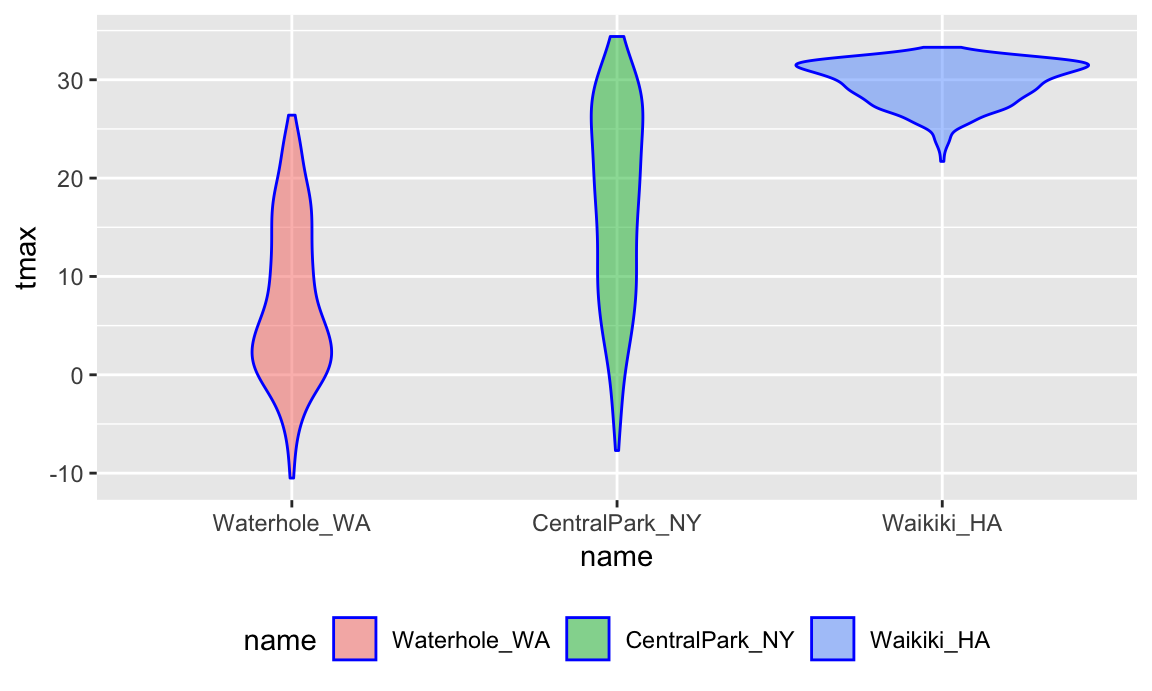
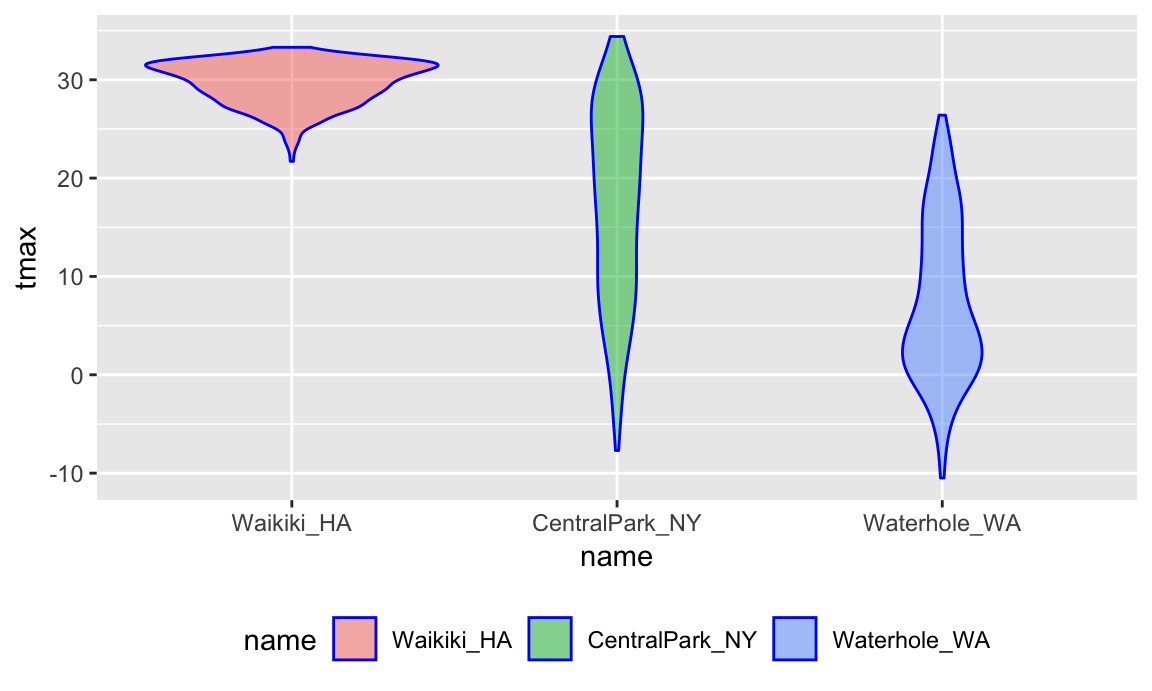
details for viz_ii

diff --git a/visualization_pt2.html b/visualization_pt2.html
@@ -396,9 +396,9 @@ div.tocify {
 </div>
 <div id="example" class="section level2">
 <h2>Example</h2>
-<p>Although I could add to the same .Rmd I started in <a href="visualization_pt1.html">Visualization Pt 1</a>, I’ll create a new document for today. We’re also going to take advantage of features in additional packages; most of these were installed previously, but you might need to install some others using the code below:</p>
+<p>I’ll create a new .Rmd for this example, and include it in the Git repo / directory for the <a href="topic_visualization_and_eda.html">Visualization and EDA</a> topic. I’m also going to take advantage of features in additional packages; most of these were installed previously, but it might be necessary to install <a href="https://github.com/thomasp85/patchwork"><code>patchwork</code></a> using the code below:</p>
 <pre class="r"><code>devtools::install_github(&quot;thomasp85/patchwork&quot;)</code></pre>
-<p>Next I’ll load the relevant packages.</p>
+<p>Next I’ll load the relevant packages for this example.</p>
 <pre class="r"><code>library(tidyverse)
 ## ── Attaching packages ─────────────────────────────────────────────────────────────────────────────────────────────────────────────────────────────────────────────────────── tidyverse 1.2.1 ──
 ## ✔ ggplot2 3.0.0     ✔ purrr   0.2.5
@@ -414,12 +414,9 @@ library(ggridges)
 ## The following object is masked from &#39;package:ggplot2&#39;:
 ## 
 ##     scale_discrete_manual
-library(ggthemes)
 library(patchwork)</code></pre>
 <p>We’ll still work with NOAA weather data, which is loaded using the same code as in <a href="visualization_pt1.html">Visualization Pt 1</a>.</p>
-<pre class="r"><code>library(rnoaa)
-
-weather_df = 
+<pre class="r"><code>weather_df = 
   rnoaa::meteo_pull_monitors(c(&quot;USW00094728&quot;, &quot;USC00519397&quot;, &quot;USS0023B17S&quot;),
                       var = c(&quot;PRCP&quot;, &quot;TMIN&quot;, &quot;TMAX&quot;), 
                       date_min = &quot;2017-01-01&quot;,
@@ -446,14 +443,14 @@ weather_df
 ##  9 CentralPark_NY USW00094728 2017-01-09     0  -4.9  -9.9
 ## 10 CentralPark_NY USW00094728 2017-01-10     0   7.8  -6  
 ## # ... with 1,085 more rows</code></pre>
-<p>As a starting point, we’ll revisit the scatterplot of <code>tmax</code> against <code>tmin</code> made in <a href="visualization_pt1.html">Visualization Pt 1</a>.</p>
+<p>As a starting point, let’s revisit the scatterplot of <code>tmax</code> against <code>tmin</code> made in <a href="visualization_pt1.html">Visualization Pt 1</a>.</p>
 <pre class="r"><code>ggplot(weather_df, aes(x = tmin, y = tmax)) + 
   geom_point(aes(color = name), alpha = .5)
 ## Warning: Removed 15 rows containing missing values (geom_point).</code></pre>
 <p><img src="visualization_pt2_files/figure-html/unnamed-chunk-4-1.png" width="90%" /></p>
-<div id="labels-etc" class="section level3">
-<h3>Labels etc</h3>
-<p>Some of the most important are the axis labels, title, and caption, all of which can be controlled using <code>labs()</code>.</p>
+<div id="labels-ticks" class="section level3">
+<h3>Labels, ticks</h3>
+<p>There are a variety of useful ways to change the appearance of your plot, especially if your graphic is intended to be viewed by others. One of the most important things you can do is provide informative axis labels, plot titles, and captions, all of which can be controlled using <code>labs()</code>.</p>
 <pre class="r"><code>ggplot(weather_df, aes(x = tmin, y = tmax)) + 
   geom_point(aes(color = name), alpha = .5) + 
   labs(
@@ -464,7 +461,7 @@ weather_df
   )
 ## Warning: Removed 15 rows containing missing values (geom_point).</code></pre>
 <p><img src="visualization_pt2_files/figure-html/unnamed-chunk-5-1.png" width="90%" /></p>
-<p>Tick marks and labels.</p>
+<p>You’ll occasionally want finer control over the location and specification of tick marks on the X or Y axis. These can be manipulated in <code>scale_x_*</code> and <code>scale_y_*</code> where <code>*</code> depends on the type of variable mapped to the <code>x</code> and <code>y</code> aesthetics.</p>
 <pre class="r"><code>ggplot(weather_df, aes(x = tmin, y = tmax)) + 
   geom_point(aes(color = name), alpha = .5) + 
   labs(
@@ -477,7 +474,7 @@ weather_df
                      labels = c(&quot;-15º C&quot;, &quot;0&quot;, &quot;15&quot;))
 ## Warning: Removed 15 rows containing missing values (geom_point).</code></pre>
 <p><img src="visualization_pt2_files/figure-html/unnamed-chunk-6-1.png" width="90%" /></p>
-<p>Other <code>scale_x</code> and <code>scale_y</code> options</p>
+<p>There are a variety of other <code>scale_x</code> and <code>scale_y</code> options – it can be helpful to know how and where these are controlled, although I usually would have to google how to do what I want.</p>
 <pre class="r"><code>ggplot(weather_df, aes(x = tmin, y = tmax)) + 
   geom_point(aes(color = name), alpha = .5) + 
   labs(
@@ -495,10 +492,11 @@ weather_df
 ## Warning: Transformation introduced infinite values in continuous y-axis
 ## Warning: Removed 90 rows containing missing values (geom_point).</code></pre>
 <p><img src="visualization_pt2_files/figure-html/unnamed-chunk-7-1.png" width="90%" /></p>
+<p>For many graph options there are several ways to produce the desired result, and you should feel free to use whichever is most convenient. For instance, <code>scale_y_sqrt()</code> can be added to a <code>ggplot</code> object to transform the Y scale, and <code>xlim()</code> can be used to control the plot limits in the X axis.</p>
 </div>
 <div id="colors-and-themes" class="section level3">
 <h3>Colors and themes</h3>
-<p>Lots of scale options for other aesthetics. Color comes up a lot.</p>
+<p>Analogously to <code>scale_x_*</code> and <code>scale_y_*</code>, there are <code>scale</code>s corresponding to many other aestheics. Some of the most common are used to control the <code>color</code> aesthetic. For example, arguments to <code>scale_color_hue()</code> control the color scale and the name in the plot legend.</p>
 <pre class="r"><code>ggplot(weather_df, aes(x = tmin, y = tmax)) + 
   geom_point(aes(color = name), alpha = .5) + 
   labs(
@@ -511,7 +509,7 @@ weather_df
                   h = c(100, 300))
 ## Warning: Removed 15 rows containing missing values (geom_point).</code></pre>
 <p><img src="visualization_pt2_files/figure-html/unnamed-chunk-8-1.png" width="90%" /></p>
-<p>Trying to create your own color scheme usually doesn’t go well; I encourage you to use the <a href="https://cran.r-project.org/web/packages/viridis/vignettes/intro-to-viridis.html"><code>viridis</code></a> package instead.</p>
+<p>Trying to create your own color scheme usually doesn’t go well; I encourage you to use the <a href="https://cran.r-project.org/web/packages/viridis/vignettes/intro-to-viridis.html"><code>viridis</code></a> package instead. There are several options, but the default color scheme works nicely!</p>
 <pre class="r"><code>ggplot(weather_df, aes(x = tmin, y = tmax)) + 
   geom_point(aes(color = name), alpha = .5) + 
   labs(
@@ -526,8 +524,8 @@ weather_df
   )
 ## Warning: Removed 15 rows containing missing values (geom_point).</code></pre>
 <p><img src="visualization_pt2_files/figure-html/unnamed-chunk-9-1.png" width="90%" /></p>
-<p>We used <code>discrete = TRUE</code> because the color aesthetic is mapped to a discrete variable. In other cases (for example, when color mapped to <code>prcp</code>) you can omit this and get a continuous color gradient. The <code>viridis::scale_fill_viridis</code> is appropriate for the <code>fill</code> aesthetic.</p>
-<p>Another that I frequently change is the legend position; by default this is on the right of the graphic, but I often shift it to the bottom to ensure the graphic takes up the available left-to-right space.</p>
+<p>We used <code>discrete = TRUE</code> because the <code>color</code> aesthetic is mapped to a discrete variable. In other cases (for example, when color mapped to <code>prcp</code>) you can omit this argument to get a continuous color gradient. The <code>viridis::scale_fill_viridis()</code> function is appropriate for the <code>fill</code> aesthetic used in histograms, density plots. and elsewhere.</p>
+<p>Another plot aspect that I frequently change is the legend position. By default this is on the right of the graphic, but I often shift it to the bottom to ensure the graphic takes up the available left-to-right space.</p>
 <pre class="r"><code>ggplot(weather_df, aes(x = tmin, y = tmax)) + 
   geom_point(aes(color = name), alpha = .5) + 
   labs(
@@ -543,8 +541,8 @@ weather_df
   theme(legend.position = &quot;bottom&quot;)
 ## Warning: Removed 15 rows containing missing values (geom_point).</code></pre>
 <p><img src="visualization_pt2_files/figure-html/unnamed-chunk-10-1.png" width="90%" /></p>
-<p><code>legend.position = &quot;none&quot;</code> will remove the legend.</p>
-<p>While we’re on the subject, you can change the default theme (which is <code>theme_gray</code>) to something else. Here’s <code>theme_bw()</code>:</p>
+<p>Quick tip: <code>legend.position = &quot;none&quot;</code> will remove the legend. This is helpful when multiple plots use the same color scheme or when the legend is obnoxious for some other reason.</p>
+<p>While we’re on the subject of <code>theme</code>, you can change the default theme (which is <code>theme_gray</code>) to something else. Here’s <code>theme_bw()</code>:</p>
 <pre class="r"><code>ggplot(weather_df, aes(x = tmin, y = tmax)) + 
   geom_point(aes(color = name), alpha = .5) + 
   labs(
@@ -596,12 +594,31 @@ weather_df
 ## Warning: Removed 15 rows containing missing values (geom_point).</code></pre>
 <p><img src="visualization_pt2_files/figure-html/unnamed-chunk-13-1.png" width="90%" /></p>
 <p>Don’t use the Excel 2003 theme (the first two are fine, and <code>ggthemes</code> has other very nice themes as well).</p>
-<p>The ordering of <code>theme_bw()</code> and <code>theme()</code> matters – <code>theme()</code> changes a particular element of the plot’s “theme”. If you call <code>theme</code> to change the theme and then <code>theme_bw()</code>, and updates are overwritten by <code>theme_bw()</code>.</p>
-<p><strong><em>Learning Assessment:</em></strong> Revisit to density plot you made comparing precipitation across locations. Use themes and labels to improve the readability of this plot.</p>
+<p>The ordering of <code>theme_bw()</code> and <code>theme()</code> matters – <code>theme()</code> changes a particular element of the plot’s current “theme”. If you call <code>theme</code> to change the some element and then <code>theme_bw()</code>, the changes introduced by <code>theme()</code> are overwritten by <code>theme_bw()</code>.</p>
+<p><strong><em>Learning Assessment:</em></strong> Revisit the plot showing <code>tmax</code> against date for each location. Use labels, scale options, and theme changes to improve the readability of this plot.</p>
+<p><details> <summary> Solution </summary></p>
+<p>One possible plot is shown below.</p>
+<pre class="r"><code>ggplot(weather_df, aes(x = date, y = tmax, color = name)) + 
+  geom_smooth(se = FALSE) + 
+  geom_point(aes(size = prcp), alpha = .75) + 
+  labs(
+    title = &quot;Temperature plot&quot;,
+    x = &quot;Date&quot;,
+    y = &quot;Maxiumum daily temperature (C)&quot;,
+    caption = &quot;Data from the rnoaa package&quot;
+  ) + 
+  viridis::scale_color_viridis(discrete = TRUE) + 
+  theme_minimal() + 
+  theme(legend.position = &quot;bottom&quot;)
+## `geom_smooth()` using method = &#39;loess&#39; and formula &#39;y ~ x&#39;
+## Warning: Removed 3 rows containing non-finite values (stat_smooth).
+## Warning: Removed 3 rows containing missing values (geom_point).</code></pre>
+<p><img src="visualization_pt2_files/figure-html/unnamed-chunk-14-1.png" width="90%" /></p>
+<p></details></p>
 </div>
 <div id="setting-options" class="section level3">
 <h3>Setting options</h3>
-<p>In addition to figure sizing, I include a lot of my preferences in global options declared at the outset of each .Rmd file (this just gets copy-and-pasted everywhere).</p>
+<p>In addition to figure sizing, I include a few other figure preferences in global options declared at the outset of each .Rmd file (this code chunk just gets copy-and-pasted to every new file).</p>
 <pre class="r"><code>library(tidyverse)
 
 knitr::opts_chunk$set(
@@ -611,10 +628,12 @@ knitr::opts_chunk$set(
 )
 
 theme_set(theme_bw() + theme(legend.position = &quot;bottom&quot;))</code></pre>
+<p>There are ways to set color preferences globally as well, although they’re a bit more complex and we probably won’t cover them.</p>
 </div>
-<div id="geom-data-argument" class="section level3">
-<h3><code>geom</code> data argument</h3>
-<p>We talked a bit about aesthetics being set globally vs locally. You can do a similar thing with data (this is a contrived example):</p>
+<div id="data-argument-in-geom_" class="section level3">
+<h3>Data argument in <code>geom_*</code></h3>
+<p>We’ve seen that where an aesthetic gets mapped to a variable matters – setting <code>aes(color = name)</code> in <code>ggplot</code> can yield different results than the same setting in <code>geom_point()</code>. This arises from the way that <code>ggplot</code> objects inherit aesthetic mappings, and it turns out there’s a similar thing with the data used to make a plot.</p>
+<p>In a contrived example, we can split <code>weather_df</code> into separate datasets for Central Park and Waikiki. Then we use one in the <code>ggplot()</code> call and another in <code>geom_line()</code>:</p>
 <pre class="r"><code>central_park = 
   weather_df %&gt;% 
   filter(name == &quot;CentralPark_NY&quot;)
@@ -627,53 +646,58 @@ ggplot(waikiki, aes(x = date, y = tmax, color = name)) +
   geom_point() + 
   geom_line(data = central_park)
 ## Warning: Removed 3 rows containing missing values (geom_point).</code></pre>
-<p><img src="visualization_pt2_files/figure-html/unnamed-chunk-15-1.png" width="90%" /></p>
+<p><img src="visualization_pt2_files/figure-html/unnamed-chunk-16-1.png" width="90%" /></p>
+<p>More realistically, it’s sometimes necessary to overlay data summaries on a plot of the complete data. Depending on the setting, one way to do this is to create a “summary” dataframe and use that when adding a new <code>geom</code> to a <code>ggplot</code> based on the full data.</p>
 </div>
 <div id="patchwork" class="section level3">
 <h3><code>patchwork</code></h3>
-<p>Facetting works if you want the “same plot” for several levels of a category. Sometimes you want to show three completely different plots.</p>
-<pre class="r"><code>p1 = ggplot(weather_df, aes(x = tmax, y = tmin, color = name)) + 
+<p>We’ve seen facetting as an approach to create the “same plot” for several levels of a categorical variable, and this can get you pretty far. Sometimes, though, you want to show two or three fundamentally different plots in the same graphic: you may want to juxtapose a scatterplot and a boxplot, or show scatterplots illustrating relationships between different variables. In this case, a solution is to create each of the panels you want separately and combine panels using tools in the <a href="https://github.com/thomasp85/patchwork"><code>patchwork</code></a> package:</p>
+<pre class="r"><code>tmax_tmin_p = ggplot(weather_df, aes(x = tmax, y = tmin, color = name)) + 
   geom_point(alpha = .5) +
   theme(legend.position = &quot;none&quot;)
 
-p2 = weather_df %&gt;% 
+prcp_dens_p = weather_df %&gt;% 
   filter(prcp &gt; 0) %&gt;% 
   ggplot(aes(x = prcp, fill = name)) + 
   geom_density(alpha = .5) + 
   theme(legend.position = &quot;none&quot;)
 
-p3 = ggplot(weather_df, aes(x = date, y = tmax, color = name)) + 
+tmax_date_p = ggplot(weather_df, aes(x = date, y = tmax, color = name)) + 
   geom_point(alpha = .5) +
   geom_smooth(se = FALSE) + 
   theme(legend.position = &quot;bottom&quot;)
 
-(p1 + p2) / p3
+(tmax_tmin_p + prcp_dens_p) / tmax_date_p
 ## Warning: Removed 15 rows containing missing values (geom_point).
 ## `geom_smooth()` using method = &#39;loess&#39; and formula &#39;y ~ x&#39;
 ## Warning: Removed 3 rows containing non-finite values (stat_smooth).
 ## Warning: Removed 3 rows containing missing values (geom_point).</code></pre>
-<p><img src="visualization_pt2_files/figure-html/unnamed-chunk-16-1.png" width="90%" /></p>
+<p><img src="visualization_pt2_files/figure-html/unnamed-chunk-17-1.png" width="90%" /></p>
+<p>The package is already very helpful but is under active development – some features may change or be added over time – so check back periodically to stay up-to-date. This does require some amount of work for each panel, and you should keep in mind that this is intended to help combine panels into a plot that couldn’t be created better using data tidying steps.</p>
 </div>
 <div id="data-manipulation" class="section level3">
 <h3>Data Manipulation</h3>
-<p>Data manip is part of plotting.</p>
-<p>The behavior of your plot depends on the data you’ve supplied; in some cases, it’s easier to control behavior through data manipulation than it is through the plot code. This is particularly true for the order of categorical or factor variables. Categorical variables will be ordered alphabetically; factors will be follow the specified order level. You can change the order level of a factor variable to your specified preference using <code>forcats::fct_relevel</code> or according to the value of another variable using <code>forcats::fct_reorder</code>.</p>
+<p>Often, struggles with <code>ggplot</code> are struggles with data tidying in disguise. Viewing data manipulation as part of the visualization process will often be your path to success! Put differently, the behavior of your plot depends on the data you’ve supplied; in some cases, it’s easier to control behavior through data manipulation than it is through the plot code.</p>
+<p>This is particularly true for the order of categorical or factor variables in plots. Categorical variables will be ordered alphabetically; factors will follow the specified order level that underlies the variable labels. You can change the order level of a factor variable to your specified preference using <code>forcats::fct_relevel</code> or according to the value of another variable using <code>forcats::fct_reorder</code>.</p>
+<p>A first example reorders <code>name</code> “by hand”:</p>
 <pre class="r"><code>weather_df %&gt;%
   mutate(name = forcats::fct_relevel(name, c(&quot;Waikiki_HA&quot;, &quot;CentralPark_NY&quot;, &quot;Waterhole_WA&quot;))) %&gt;% 
   ggplot(aes(x = name, y = tmax)) + 
   geom_violin(aes(fill = name), color = &quot;blue&quot;, alpha = .5) + 
   theme(legend.position = &quot;bottom&quot;)
 ## Warning: Removed 3 rows containing non-finite values (stat_ydensity).</code></pre>
-<p><img src="visualization_pt2_files/figure-html/unnamed-chunk-17-1.png" width="90%" /></p>
+<p><img src="visualization_pt2_files/figure-html/unnamed-chunk-18-1.png" width="90%" /></p>
+<p>A second example reorders <code>name</code> according to <code>tmax</code> values in each name:</p>
 <pre class="r"><code>weather_df %&gt;%
   mutate(name = forcats::fct_reorder(name, tmax)) %&gt;% 
   ggplot(aes(x = name, y = tmax)) + 
   geom_violin(aes(fill = name), color = &quot;blue&quot;, alpha = .5) + 
   theme(legend.position = &quot;bottom&quot;)
 ## Warning: Removed 3 rows containing non-finite values (stat_ydensity).</code></pre>
-<p><img src="visualization_pt2_files/figure-html/unnamed-chunk-18-1.png" width="90%" /></p>
+<p><img src="visualization_pt2_files/figure-html/unnamed-chunk-19-1.png" width="90%" /></p>
 <p>We’ll learn more about the <a href="http://forcats.tidyverse.org/index.html"><code>forcats</code></a> package in <a href="data_wrangling_ii.html">Data Wrangling II</a>.</p>
-<p>More difficult example – suppose i wanted a three-panel plot showing the distribution of min and max temps in each location.</p>
+<p>A more difficult situation relates to data tidyiness. Suppose I wanted to create a three-panel plot showing densities for <code>tmax</code> and <code>tmin</code> within each location. More concretely, I want to be able to facet panels across the <code>name</code> variable, and create separate densities for <code>tmax</code> and <code>tmin</code> in each panel. Unfortunately, <code>weather_df</code> isn’t organized in a way that makes this easy.</p>
+<p>One solution would recognize that <code>tmax</code> and <code>tmin</code> are separate observation types of a shared <code>temperature</code> variable. With this understanding, it’s possible to tidy the <code>weather_df</code> and make the plot directly:</p>
 <pre class="r"><code>weather_df %&gt;%
   select(name, tmax, tmin) %&gt;% 
   gather(key = observation, value = temp, tmax:tmin) %&gt;% 
@@ -682,8 +706,8 @@ p3 = ggplot(weather_df, aes(x = date, y = tmax, color = name)) +
   facet_grid(~name) + 
   viridis::scale_fill_viridis(discrete = TRUE)
 ## Warning: Removed 18 rows containing non-finite values (stat_density).</code></pre>
-<p><img src="visualization_pt2_files/figure-html/unnamed-chunk-19-1.png" width="90%" /></p>
-<p>Make a plot of pusle data</p>
+<p><img src="visualization_pt2_files/figure-html/unnamed-chunk-20-1.png" width="90%" /></p>
+<p>Our emphasis on data tidiness in previous examples is helpful in visualization. The code below imports and tidies the PULSE data, and creates a plot showing BDI score across visits. Some steps that are helpful in retrospect are using <code>gather</code> to organize the BDI score and visit time variables, and organizing the visit time variable into a factor with an informative ordering.</p>
 <pre class="r"><code>pulse_data = haven::read_sas(&quot;./data/public_pulse_data.sas7bdat&quot;) %&gt;%
   janitor::clean_names() %&gt;%
   gather(key = visit, value = bdi, bdi_score_bl:bdi_score_12m) %&gt;%
@@ -698,8 +722,8 @@ p3 = ggplot(weather_df, aes(x = date, y = tmax, color = name)) +
 ggplot(pulse_data, aes(x = visit, y = bdi)) + 
   geom_boxplot()
 ## Warning: Removed 879 rows containing non-finite values (stat_boxplot).</code></pre>
-<p><img src="visualization_pt2_files/figure-html/unnamed-chunk-20-1.png" width="90%" /></p>
-<p>Make a plot of FAS data</p>
+<p><img src="visualization_pt2_files/figure-html/unnamed-chunk-21-1.png" width="90%" /></p>
+<p>As a final example, we’ll revisit the FAS data. We’ve seen code for data import and organization and for joining the litters and pups data. Here we add some data tidying steps to view pup-level outcomes (post-natal day on which ears “work”, on which the pup can walk, etc) across values of dose category and treatment day.</p>
 <pre class="r"><code>pup_data = read_csv(&quot;./data/FAS_pups.csv&quot;, col_types = &quot;ciiiii&quot;) %&gt;%
   janitor::clean_names() %&gt;%
   mutate(sex = recode(sex, `1` = &quot;male&quot;, `2` = &quot;female&quot;)) 
@@ -721,7 +745,8 @@ fas_data %&gt;%
   ggplot(aes(x = dose, y = pn_day)) + 
   geom_violin() + 
   facet_grid(day_of_tx ~ outcome)</code></pre>
-<p><img src="visualization_pt2_files/figure-html/unnamed-chunk-21-1.png" width="90%" /></p>
+<p><img src="visualization_pt2_files/figure-html/unnamed-chunk-22-1.png" width="90%" /></p>
+<p>The PULSE and FAS examples involve some fairly complex import, tidying, and plotting steps. They aren’t intended to be daunting, but rather to illustrate how closely linked the steps in this process are and to emphasize the need for proficiency in data wrangling tools when conducting exploratory analyses.</p>
 </div>
 </div>
 <div id="other-materials" class="section level2">
